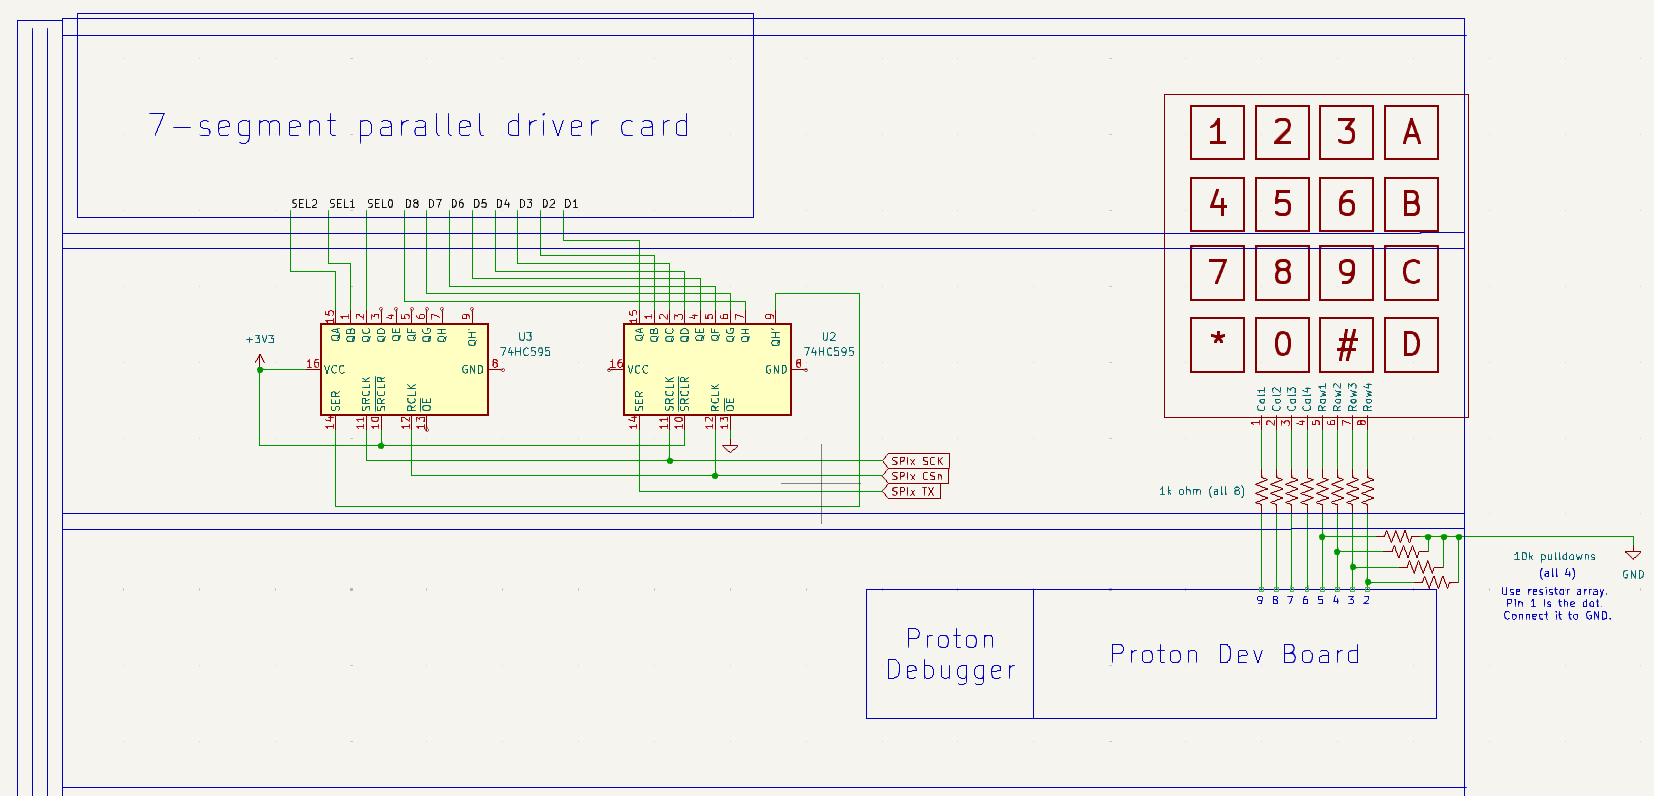
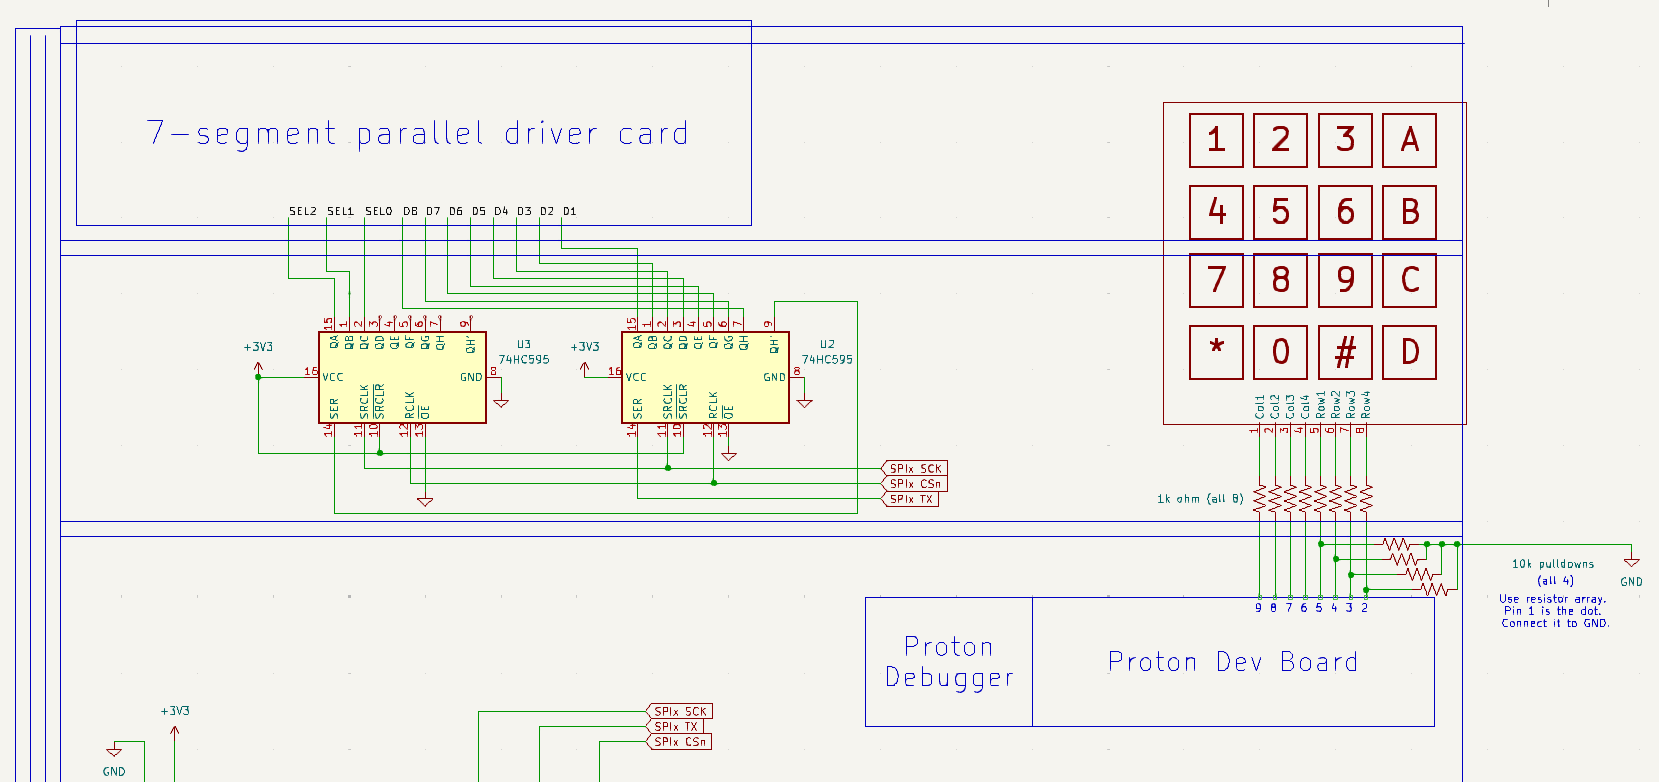
lab6: complete

diff --git a/lab6-spi/README.md b/lab6-spi/README.md
@@ -84,7 +84,7 @@ We can also **chain** multiple shift registers by connecting the data output of 
 
 So if we happen to have two 8-bit shift registers, we could use 11 of those bits to act as the "pins" that we're now replacing.  
 
-Now, let's go ahead and wire up the two 74HC595 shift registers in your kit.  Disconnect the wires between your Proton board and the 7-segment displays, and the USB-C cable to your debugger (as you need to route wires underneath it) and follow this schematic to wire up your shift registers:
+Now, let's go ahead and wire up the two 74HC595 shift registers in your kit.  Disconnect the wires between your Proton board and the 7-segment displays, and the USB-C cable to your debugger (as you need to route wires underneath it).  **Place the shift registers so that the side of pins 1-8 face the seven-segment display (the pin 1 dot is on the right side of the chip facing you), which is *opposite* to what you used to do with other 74-series chips.**  This is to make the wiring easier.  Then, follow this schematic to wire up your shift registers:
 
 ![alt text](images/7seg-schem.png)
 
@@ -145,17 +145,23 @@ In `display.c`, do the following:
 
 Implement `display_init_bitbang` to initialize the 3 pins for communicating with the 7-segment display as GPIO outputs.  Set the CSn pin high and the SCK and TX pins low so that we don't accidentally send any data to the shift registers.
 
-Implement `display_bitbang_spi` to perform the actual SPI communication bit-banging.  The message to be sent are the 8 11-bit elements of `msg`.  For each of the 8 elements, you will push out 3 bits that correspond to the 3 decoder address pins, and then 8 bits that correspond to the segments of the selected display.  
+Implement `display_bitbang_spi` to perform the actual SPI communication bit-banging.  The message to be sent are the 8 11-bit elements of `msg`.  For each of the 8 elements, you will push out 3 bits that correspond to the 3 decoder address pins, and then 8 bits that correspond to the segments of the selected display.  **However, you must still send 16 bits at a time to make sure the bits reach the correct positions, so make sure to left-pad the 3 bits with 5 zeroes.**
 
 How SPI works in a nutshell is as follows:
-- CSn (chip select) is pulled low to select the device.
-- TX (data) is set to the data to be sent, whether that's a logic 1 or 0.
-- SCK (clock) is toggled high to shift the data out to the device.
-- The process is repeated for each bit of data to be sent.
-- After all bits of one element are sent, sleep for 1 millisecond to allow the current propagation to settle.
-- After all 8 elements are sent, CSn is pulled high to deselect the device.
+- When transmiting a new element from the eight in the `msg` buffer, CSn (chip select) is pulled low to select the device.  Sleep for 10 microseconds to allow the device to settle.
+- TX (data) is set to the data to be sent, whether that's a logic 1 or 0.  Sleep for 1 microsecond to allow the data to propagate and satisfy any setup time requirements (remember those?).
+- SCK (clock) is toggled high to shift the data out to the device.  Sleep for 5 microseconds, then toggle it low to complete the clock cycle, and sleep another 5 microseconds.
+- The process of setting data, and toggling the clock, is repeated for each bit of data to be sent until the element is fully sent.
+- After each elements is sent, CSn is pulled high to deselect the device.  Sleep for 10 microseconds to allow the device to settle.
 
 In `main.c`, make sure `STEP2` is defined.  This will call both functions for you in `main()`.  Upload your code and you should see the 7-segment displays light up with the numbers 0-7, each on a different display.  
+
+When it doesn't work:
+1. Check your wiring, carefully.  Use a multimeter to perform continuity checks from the SPI lines to the shift registers and from the shift registers to the 7-segment displays.
+2. Check your pins in `main.c` to ensure you are using the correct pins for SPI SCK, CSn and TX.  Ensure that you are making them GPIO outputs, **not** SPI outputs.  SPI comes in the next step.
+3. Use an oscilloscope's Serial function (literally just press the Serial button), or the Logic Analyzer on an AD2/3, to watch the SPI signals as the `display_bitbang_spi` function runs.  You are implementing bit-banging for 16-bit SPI, and you can consider a clock speed of 100 KHz.  Compare them to the signals below and ensure they look similar.
+
+![spi-waveforms](images/7seg-waves.png)
 
 > [!IMPORTANT]
 > Show your TA your working 7-segment displays and that you are bit-banging SPI.  Show them the code you wrote, and that it passes the `bitbang` test case.
@@ -173,10 +179,21 @@ In `display.c`, implement `display_init_spi` to initialize the three GPIO pins t
   - We're only sending 11 bits at a time, but we need to send 16 at a time so that 1) the SPI peripheral can send the data in one go, and 2) the two 8-bit shift registers will receive the data correctly.
 - The CPOL and CPHA should be set to 0, meaning that the clock is idle low, and data is sampled on the rising edge of the clock.
 - The endianness (bit order) should be set to MSB first, meaning that the most significant bit is sent first, which is the A2 pin of the decoder on your 7-segment display.
+  - While we were writing this lab, we discovered that the SPI isn't even capable of LSB-first transmission!  If you ever find yourself needing to use that, just flip the bits that you're transmitting.
+- Finally, the SPI peripheral should be enabled.  (You may see something about DREQ signals being always enabled - that doesn't have to be done until the DMA step.)
 
-In the same file, implement `display_print` to send each element of `msg` to the SPI peripheral.    (Now that we're using SPI, things get a lot simpler!)  Since we're using a lower clock speed, there's no need to sleep between sending each element, as the SPI peripheral will handle the timing for us.  Of course, we can still improve on that in the next step...
+In the same file, implement `display_print` to write each element of `msg` to the SPI peripheral data buffer, which triggers a "transaction".  The SPI peripheral, having received a new "datum" (our `msg` element), will automatically toggle the select/clock/data lines for us and transmit the datum we just gave it.  (Now that we're using SPI, things get a lot simpler!)  Notice that now there's no need to sleep between sending each element, as the SPI peripheral will handle the timing for us.  This can 
+
+However, we are still in a situation where we're using Of course, we can still improve on that in the next step...
 
 Uncomment STEP3, which calls both functions for you in `main`.  Upload and monitor, and you should see the same result as before, but now the 7-segment displays are being driven by the SPI peripheral instead of bit-banging.
+
+When it doesn't work:
+1. Check your pins in `main.c` to ensure you are using the correct pins for SPI SCK, CSn and TX.  Ensure that you are making them SPI outputs, **not** GPIO outputs.  GPIO was for manually bit-banging SPI.
+2. Use an oscilloscope's Serial function (literally just press the Serial button), or the Logic Analyzer on an AD2/3, to watch the SPI signals as the `display_bitbang_spi` function runs.  You are implementing bit-banging for 16-bit SPI, and you are using a clock speed of 125 KHz.  Compare them to the signals below (should be the same as when you bit-banged SPI) and ensure they look similar.
+3. Make sure you specified that you were using an LCD or OLED display 
+
+![spi-waveforms](images/7seg-waves.png)
 
 > [!IMPORTANT]
 > Show your TA your working 7-segment displays and that you are using the SPI peripheral.  Show them the code you wrote, and that it passes the `spi` test case.
@@ -187,7 +204,44 @@ Uncomment STEP3, which calls both functions for you in `main`.  Upload and monit
 
 In the past two steps, we used a loop to continually push out the bits to the 7-segment displays.  However, we like to ensure that whatever can be offloaded, should be offloaded to the hardware separate from the CPU.  
 
-Thus we come revisit the DMA peripheral.  You may remember from lab 4 where you used DMA to move sample data from the ADC to a variable in memory.  We'll now flip that around and use DMA to send data from memory to the SPI peripheral, which will then send it out to the 7-segment displays.
+Thus we revisit the DMA peripheral from lab 4.  You may remember back in lab 4 that you used DMA to move sample data from the ADC to a variable in memory.  We'll now flip that around and use DMA to send data from the `msg` array to the SPI peripheral, which will then send it out to the 7-segment displays.  This frees up the CPU to do other things while the DMA handles 
+
+In the function `display_init_dma`, configure a free DMA channel by setting four things, which is generally the case for setting up any DMA transfer:
+1. The source address, which is the address of the `msg` array.
+2. The destination address, which is the SPI data register for the SPI peripheral associated with the 7-segment display.
+3. The transfer count, which should set the DMA channel for ENDLESS mode, and will perform 8 transfers.
+
+In a new temporary 32-bit variable, set the following parameters:
+
+4. The data size of each transfer will be the size of one element of `msg`, or 16 bits.
+5. The read address should increment after every transfer.
+6. The read address should wrap every X bits.  (Figure out what X is.)
+  - When you are in ENDLESS mode, the DMA will keep incrementing the source address by 16 bits (2 bytes) after each transfer in order to reach the next element of `msg`.  However, DMA doesn't understand that `msg` is only 8 elements long, so we need to tell it to wrap around to the first element's address after it has transferred the first element.  
+  - Therefore, the value of X is the number of bits that the DMA should wrap around after transferring all eight elements of `msg`.
+7. Select SPI1 TX as the Data Request (DREQ) source.
+  - When SPI finishes transmitting data, or has only just been configured, the data register will be empty, i.e. have a value of zero.  This is used to tell other peripherals, including DMA and IRQ, that the SPI transmit (TX) FIFO is empty, and ready to receive new data.  For DMA, that triggers a data request.
+8. Finally, enable the DMA channel.
+
+If you didn't already enable DREQ signals from the SPI in the previous steps, do that before you configure DMA.
+
+At the top of `main.c` in the username block, specify what DMA channel number you used.  We'll use this for `autotest`.s
+
+Then, assign the temporary register to the DMA channel's `ctrl_trig` register, which will configure and enable the DMA channel with the parameters you just set.
+
+> [!NOTE]
+> *There is a `ctrl` register and a `ctrl_trig` register.  What's the difference?*
+> The `ctrl` register is used to configure the DMA channel, while the `ctrl_trig` register is used to trigger the DMA channel and start the transfer.  This is very helpful if you want to restart the DMA transfer yourself by changing a few bits every time.  You could theoretically even use DMA to start a new DMA transfer, which could also be used to restart the first one!  That process is called "chaining" and can be extremely useful if you want to perform multiple different DMA transfers in a row without having to manually trigger each one.
+> 
+> Read [12.6.3.1 Aliases and Triggers](https://datasheets.raspberrypi.com/rp2350/rp2350-datasheet.pdf#section_dma_starting_channels) for different options on triggering a DMA channel to start - you can even write the `ctrl` register first and write to an *alias* register for the transfer count, read address or write address registers to do the DMA triggering instead.
+> 
+> The purpose of the temporary register is so that we set all our parameters first before writing to the `ctrl_trig` register, which would start the DMA transfer immediately.
+
+Upload and monitor, and you should see the same result as before, but now the 7-segment displays are being driven by the SPI peripheral with DMA, while the CPU remains in a loop and can now be used for something else.
+
+When it doesn't work:
+
+1. Ensure that you set the correct DMA channel number in `main.c` at the top of the file in the variable `SEG7_DMA_CHANNEL`, and that you are using the same DMA channel in `display_init_dma`.
+2. Debug your code, and go through the DMA Channel X registers in the RP2350 datasheet to ensure you are setting the correct parameters.  Make sure you are using the correct DMA channel throughout the code.  Check to see that the bits you want to set are being set properly in the `ctrl_trig`, `trans_count`, read and write address registers.
 
 > [!IMPORTANT]
 > Show your TA your working 7-segment displays and that you are using the SPI peripheral.  Show them the code you wrote, and that it passes the `dma` test case.
@@ -203,7 +257,7 @@ The display functions with an **internal controller** that interprets the comman
 We'll do our initialization in `chardisp.c` ("chardisp" is short for "character display").  The initialization is different for the two types of displays, so make sure to follow the instructions for your specific display type.
 
 > [!NOTE]
-> *How do you know what to do for this display?*
+> *How do we know how to communicate with this display and that it supports SPI?*  
 > There is a datasheet for your display here: https://ece362-purdue.github.io/proton-labs/datasheets/
 > 
 > If you read it carefully, it describes what bits you need to send to the display to initialize it, set the cursor position, and write text to it.  
@@ -218,6 +272,7 @@ Initialize the pins that you have connected to your LCD/OLED display in `init_ch
   - **10 bits for the OLED**.
 - CPOL and CPHA should be set to 0, as usual.
 - The endianness (bit order) should be set to MSB first, as usual.
+  - While we were writing this lab, we discovered that the SPI isn't even capable of LSB-first transmission!  If you ever find yourself needing to use that, just flip the bits that you're transmitting.
 
 #### 5.2: `send_spi_cmd`
 
@@ -225,15 +280,15 @@ In this function, wait until the SPI peripheral (whose associated object passed 
 
 #### 5.3: (LCD only) `send_spi_data`
 
-This function just calls `send_spi_cmd` but it ORs in **0x100** to the value.  The presence of this bit indicates that it is a data byte, not a command byte, to the display's controller.
+This function just calls `send_spi_cmd` but it ORs in **0x100** to the value.  The presence of this bit indicates that it is a data byte, not a command byte, to the display's controller.  Make sure to transmit the value with the SPI peripheral passed in as an argument - don't hardcode it!
 
 #### 5.3: (OLED only) `send_spi_data`
 
-This function just calls `send_spi_cmd` but it ORs in **0x200** to the value.  The presence of this bit indicates that it is a data byte, not a command byte, to the display's controller.
+This function just calls `send_spi_cmd` but it ORs in **0x200** to the value.  The presence of this bit indicates that it is a data byte, not a command byte, to the display's controller.  Make sure to transmit the value with the SPI peripheral passed in as an argument - don't hardcode it!
 
 #### 5.4: (LCD only) `cd_init`
 
-We're now ready to initialize the LCD display.  We'll give you the list of command to send to the display to properly initialize it, but you need to go through the LCD datasheet to understand how to do this.  **Be prepared to explain to your TA what each command does and how you found it.**
+In this step, we're going to initialize the LCD display by transmitting commands via the SPI peripheral connected to it.  We'll give you the list of command to send to the display to properly initialize it, but you need to go through the LCD datasheet to understand how to do this.  **Be prepared to explain to your TA what each command does and how you found it.**
 
 1. Sleep 1 millisecond to let power to the display stabilize, in case we have only just plugged in the Proton.
 2. Perform a Function Set command with the following parameters:
@@ -250,7 +305,7 @@ We're now ready to initialize the LCD display.  We'll give you the list of comma
 
 #### 5.4: (OLED only) `cd_init`
 
-We're now ready to initialize the OLED display.  We'll give you the list of command to send to the display to properly initialize it, but you need to go through the OLED datasheet to understand how to do this.  **Be prepared to explain to your TA what each command does and how you found it.**
+In this step, we're going to initialize the OLED display by transmitting commands via the SPI peripheral connected to it.  We'll give you the list of command to send to the display to properly initialize it, but you need to go through the OLED datasheet to understand how to do this.  **Be prepared to explain to your TA what each command does and how you found it.**
 
 1. Sleep 1 millisecond to let power to the display stabilize, in case we have only just plugged in the Proton.
 2. Perform a Function Set command with the following parameters:
@@ -271,6 +326,12 @@ This function will send the first 16 characters of the string argument `str` to 
 Same as `cd_display1`, but you send the 16 characters to the second line of your display.
 
 Carefully check your code, and then head back to `main.c` and uncomment `STEP5`, which will call all the functions you just implemented.  Upload your code and you should see your display show a reaffirming message!
+
+When it doesn't work:
+1. Check your wiring, carefully.  Use a multimeter to perform continuity checks from the SPI lines to the display and from the display to the Proton board.
+2. Check your pins in `main.c` to ensure you are using the correct pins for SPI SCK, CSn and TX, and that they are SPI outputs.
+3. Ensure you are using the correct SPI peripheral associated with the pins you specified in `main.c`, and that you are consistently using that peripheral throughout your `chardisp.c` functions.
+4. Use an oscilloscope's Serial function, or the Logic Analyzer on an AD2/3, to watch the SPI signals as the `cd_init` function runs.  You should see a series of commands being sent to the display, and then the text being displayed on it.  Configure the data size based on the display type you are using, and the clock speed to 10 KHz.  
 
 > [!IMPORTANT]
 > Show your TA your working display and that you are using the SPI peripheral.  Show them the code you wrote, and that it passes the `chardisp` test case.
@@ -316,4 +377,4 @@ again:
 
 That PIO program gets compiled to a **binary format** with a program called `pioasm`, or PIO Assembler, into a binary format.  To make including it in your project easier, we've added code to detect if you have `.pio` files in your `src` directory, and uses `pioasm` to compile them into `.pio.h` header files that will get automatically included in your project.
 
-Then, in your `main.c`, you use the definitions created in that header file to load the compiled PIO program into the PIO instruction memory, and start the PIO state machine which fetches, decodes and executes the instructions in the PIO program.  You can configure additional things like a different PIO clock speed to make it slower, the pins to be configured by the PIO, 
+Then, in your `main.c`, you use the definitions created in that header file to load the compiled PIO program into the PIO instruction memory, and start the PIO state machine which fetches, decodes and executes the instructions in the PIO program.  You can configure additional things like a different PIO clock speed to make it slower, the pins to be configured by the PIO, etc. before the PIO state machine starts running.

diff --git a/README.md b/README.md
@@ -21,9 +21,9 @@ Embedded:
 [Lab 3 - Timers](lab3-timers/README.md)  
 [Lab 4 - ADC and DMA](lab4-adc-dma/README.md)  
 [Lab 5 - PWM](lab5-pwm/README.md)  
+[Lab 6 - SPI](lab6-spi/README.md)  
 
 <!-- 
-[Lab 6 - SPI](lab6-spi/README.md)  
 [Lab 7 - USART](lab7-usart/README.md)   
 
 *Not for credit*  
